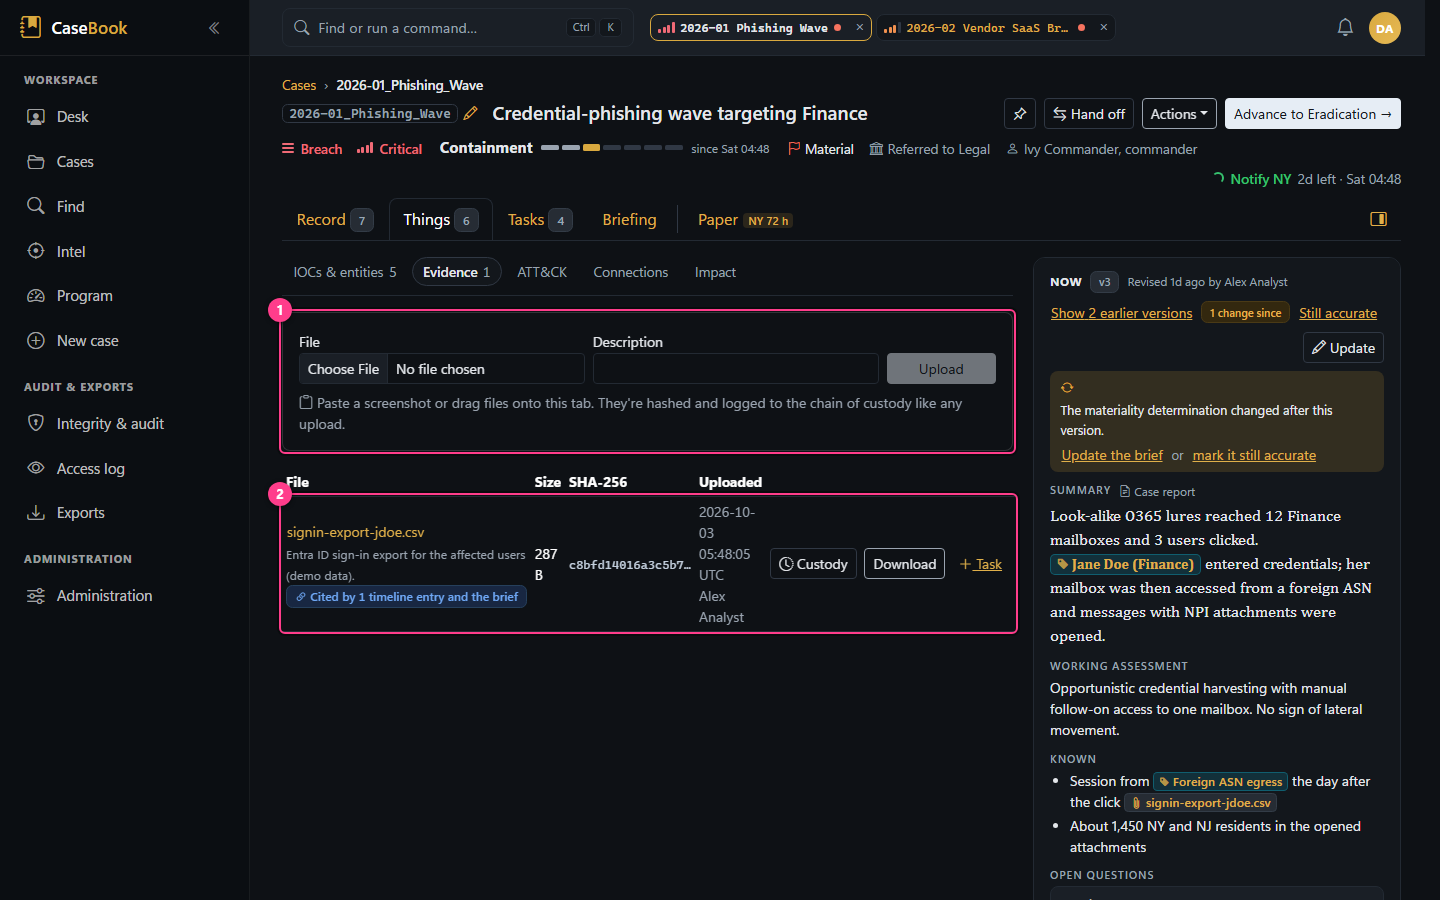
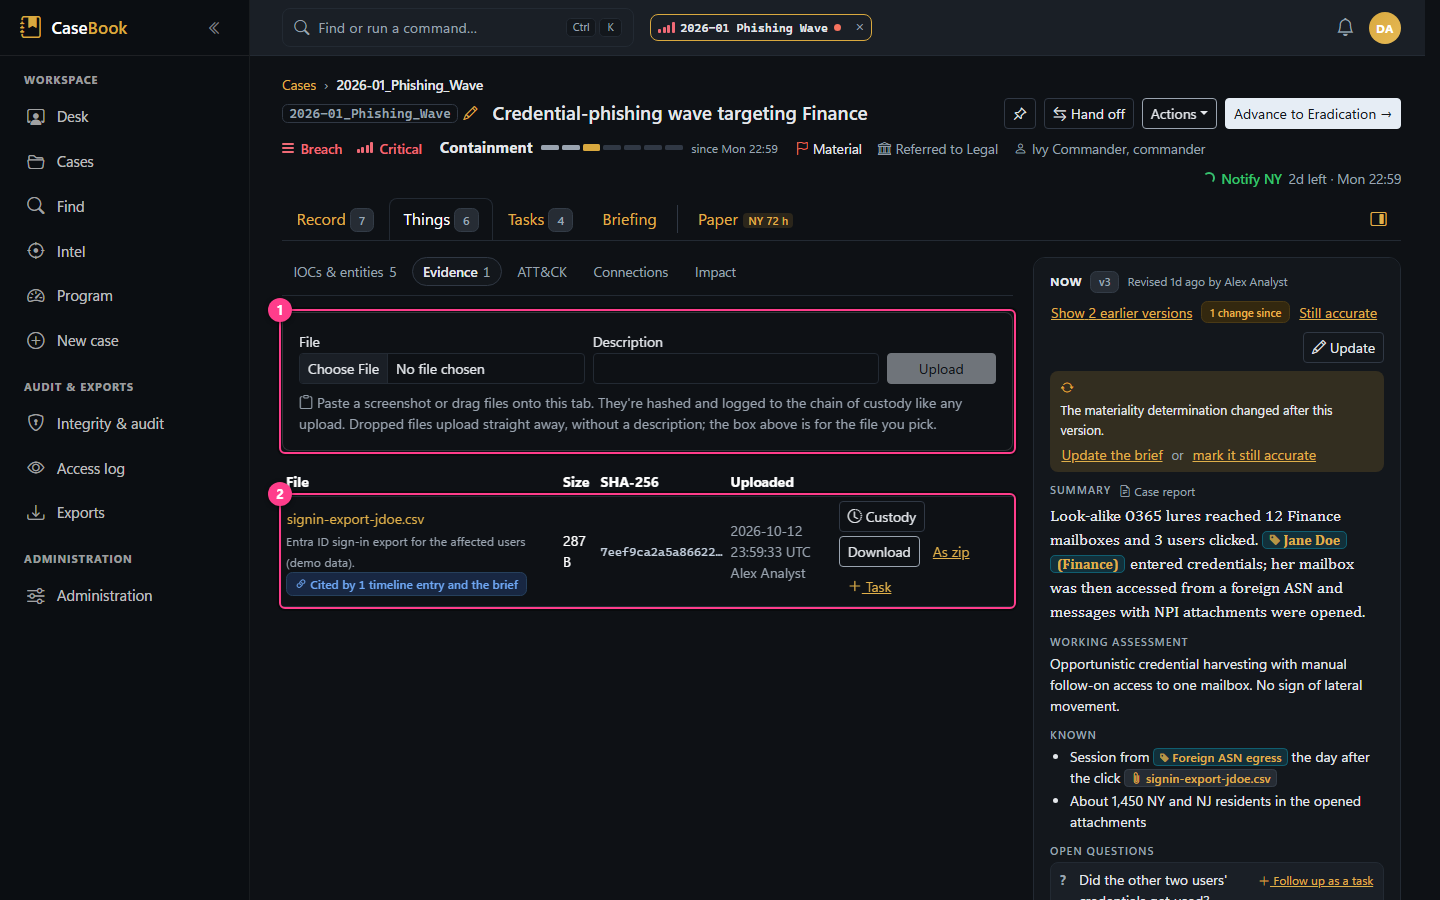
Evidence tab actions wrap inside their column; doc screenshot and evidence docs current (PROD-55/56/58)
The As zip link pushed the row past its column with the side panel open (Task hidden under it); the actions now
wrap, each whole. doc-evidence.png regenerated from a fresh demo database. screens.md, investigation.md and the
hard-coded values table still said 50 MB and knew only the plain download.

diff --git a/tests/IncidentManager.IntegrationTests/KeyToolTests.cs b/tests/IncidentManager.IntegrationTests/KeyToolTests.cs
@@ -114,13 +114,15 @@ public sealed class KeyToolTests : IDisposable
             // Review finding 11: the share files are readable by administrators (and SYSTEM, and whoever ran it) only.
             var acl = new DirectoryInfo(Path.Combine(_site, "shares-out")).GetAccessControl();
             acl.AreAccessRulesProtected.Should().BeTrue("nothing inherited from the parent folder");
-            acl.GetAccessRules(true, true, typeof(System.Security.Principal.SecurityIdentifier)).Cast<System.Security.AccessControl.FileSystemAccessRule>()
-                .Select(r => r.IdentityReference.Value).Should().NotContain(new[]
-                {
-                    new System.Security.Principal.SecurityIdentifier(System.Security.Principal.WellKnownSidType.BuiltinUsersSid, null).Value,
-                    new System.Security.Principal.SecurityIdentifier(System.Security.Principal.WellKnownSidType.WorldSid, null).Value,
-                    new System.Security.Principal.SecurityIdentifier(System.Security.Principal.WellKnownSidType.AuthenticatedUserSid, null).Value,
-                });
+            var holders = new List<string>();
+            foreach (System.Security.AccessControl.FileSystemAccessRule rule in acl.GetAccessRules(true, true, typeof(System.Security.Principal.SecurityIdentifier)))
+                holders.Add(rule.IdentityReference.Value);
+            holders.Should().NotContain(new[]
+            {
+                new System.Security.Principal.SecurityIdentifier(System.Security.Principal.WellKnownSidType.BuiltinUsersSid, null).Value,
+                new System.Security.Principal.SecurityIdentifier(System.Security.Principal.WellKnownSidType.WorldSid, null).Value,
+                new System.Security.Principal.SecurityIdentifier(System.Security.Principal.WellKnownSidType.AuthenticatedUserSid, null).Value,
+            });
         }
         KeyEnvelope.Parse(File.ReadAllText(site.EnvelopePath))!.Shares.Should().Match<SharesIssued>(s => s.Threshold == 3 && s.Count == 5);
         File.ReadAllText(site.EnvelopePath).Should().NotContain(shares[0], "the envelope records that shares were issued, never a share");

diff --git a/docs/workflows/investigation.md b/docs/workflows/investigation.md
@@ -138,8 +138,9 @@ the note is marked "On the record".
 | | |
 |---|---|
 | **Trigger** | Evidence tab: choose a file and a description, then *Upload*; or paste a screenshot or drag files onto the tab (uploaded immediately) |
-| **Behind the scenes** | `EvidenceService.UploadAsync` checks `EditCases` and need-to-know **before** storing; the evidence store writes the bytes under a random name outside the web root while computing SHA-256; an `Evidence` row and an "Uploaded" custody event are saved. |
-| **Limits** | 50 MB per file through the page (15 MB for timeline screenshots) |
+| **Behind the scenes** | `EvidenceService.UploadAsync` checks `EditCases`, need-to-know and the room left (size, quota, free space) **before** storing; the evidence store writes the bytes under a random name outside the web root while computing SHA-256 (encrypted when evidence encryption is on); an `Evidence` row and an "Uploaded" custody event are saved. Files over 100 MB go up in 8 MB parts (`/evidence/uploads`), each checked again, and are read back before they're recorded. |
+| **Limits** | `Evidence:MaxUploadMB` per file (500 MB by default, up to 64 GB), `Evidence:StorageQuotaGB` in all, and `Evidence:MinFreeSpaceGB` left free (Administration › Governance & security › Evidence storage); 15 MB for timeline screenshots |
+| **Download** | *Download* (the file, sent as plain bytes with a sandboxing CSP) or *As zip* (a zip with the password `infected`). A file that can run downloads first as the zip (*Download safely*), per `Evidence:SafeDownload`. The custody event says which. |
 | **Custody** | *Custody* shows uploaded, viewed (preview; once per person per 10 minutes), downloaded (explicit download only), transferred. **Record transfer** (recipient, method, purpose) attests a hand-off outside CaseBook; it's also written to the audit chain. Thumbnails don't count. |
 | **Integrity** | The file's hash is part of the record. The optional re-hash job alarms if stored bytes change. |
 | **Removal** | Not possible. Evidence is immutable once attached. |

diff --git a/docs/product/screens.md b/docs/product/screens.md
@@ -269,12 +269,15 @@ Below the list, relationships are added and edited (type, description and direct
 
 ![Evidence](../screenshots/doc-evidence.png)
 
-1. **Upload**: pick, paste or drag a file (up to 50 MB). It's hashed (SHA-256) on the way in and stored
-   outside the web root.
+1. **Upload**: pick, paste or drag a file (up to the administrator's limit, 500 MB by default; files over 100 MB go
+   up in parts with a progress bar). It's hashed (SHA-256) on the way in and stored outside the web root, encrypted
+   when evidence encryption is on.
 2. **An evidence row**: description, size, SHA-256, who uploaded it and when, and what cites it ("Cited by 1
    timeline entry and the brief"). **Custody** shows the chain of custody (uploaded, viewed, downloaded,
-   transferred) and records a transfer; **Download** is itself a custody event; **Task** raises a task about
-   the file. Evidence can't be deleted.
+   transferred) and records a transfer; **Download** is itself a custody event, and **As zip** gives the file in a
+   zip with the password `infected`. A file that can run (a program, script, shortcut, disk image, Office file with
+   macros) is marked **Can run** and offers **Download safely** (the zip) first, with the plain file behind a
+   confirmation. **Task** raises a task about the file. Evidence can't be deleted.
 
 ## Working notes
 

diff --git a/docs/operations/configuration.md b/docs/operations/configuration.md
@@ -349,7 +349,7 @@ first.
 
 | Value | Where |
 |---|---|
-| Evidence upload limit **50 MB** | `Web/Components/Pages/CaseTabs/CaseEvidenceTab.razor` (`MaxEvidenceBytes`) |
+| Evidence uploads over **100 MB** go in **8 MB** parts; **3** in progress per person; abandoned after **24 hours** | `Application/Evidence/EvidenceUploadSessions.cs` |
 | Timeline screenshot **15 MB**; report logo 2 MB; Word template 5 MB; config bundle 64 MB | `CaseTimelineTab.razor`, `Admin.razor`, `Application/Admin/ReportTemplateService.cs`, `AdminConfigBundle.razor` |
 | Case-import file **4 MB in the UI, 5 MB through the API**; IOC import 2,000 indicators | `CaseImport.razor`, `Web/Program.cs`, `Application/Import/IocImportConverter.cs` |
 | Audit-chain verification every **10 minutes** (new entries and every record), the whole chain re-hashed every **6 hours** | `Web/BackgroundJobs/IntegritySealHostedService.cs`, `Application/Integrity/IntegrityCheckState.cs` |
